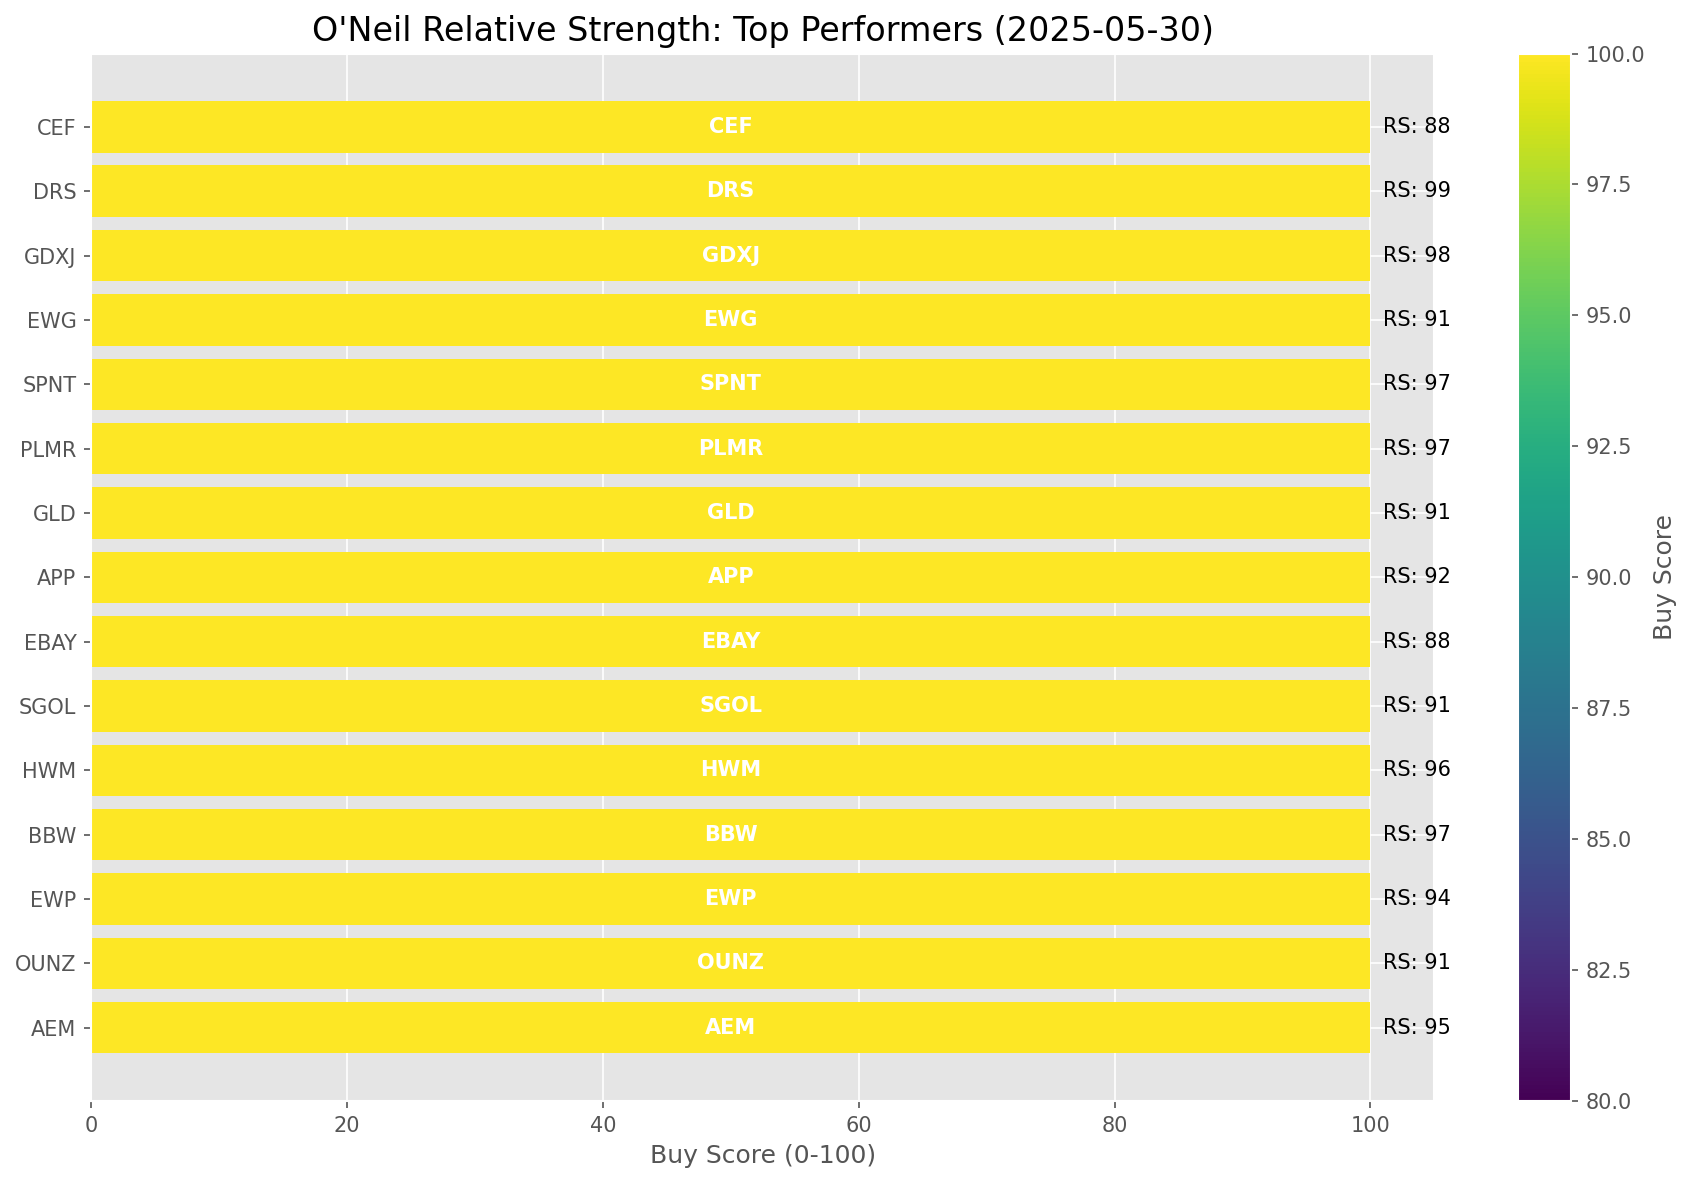
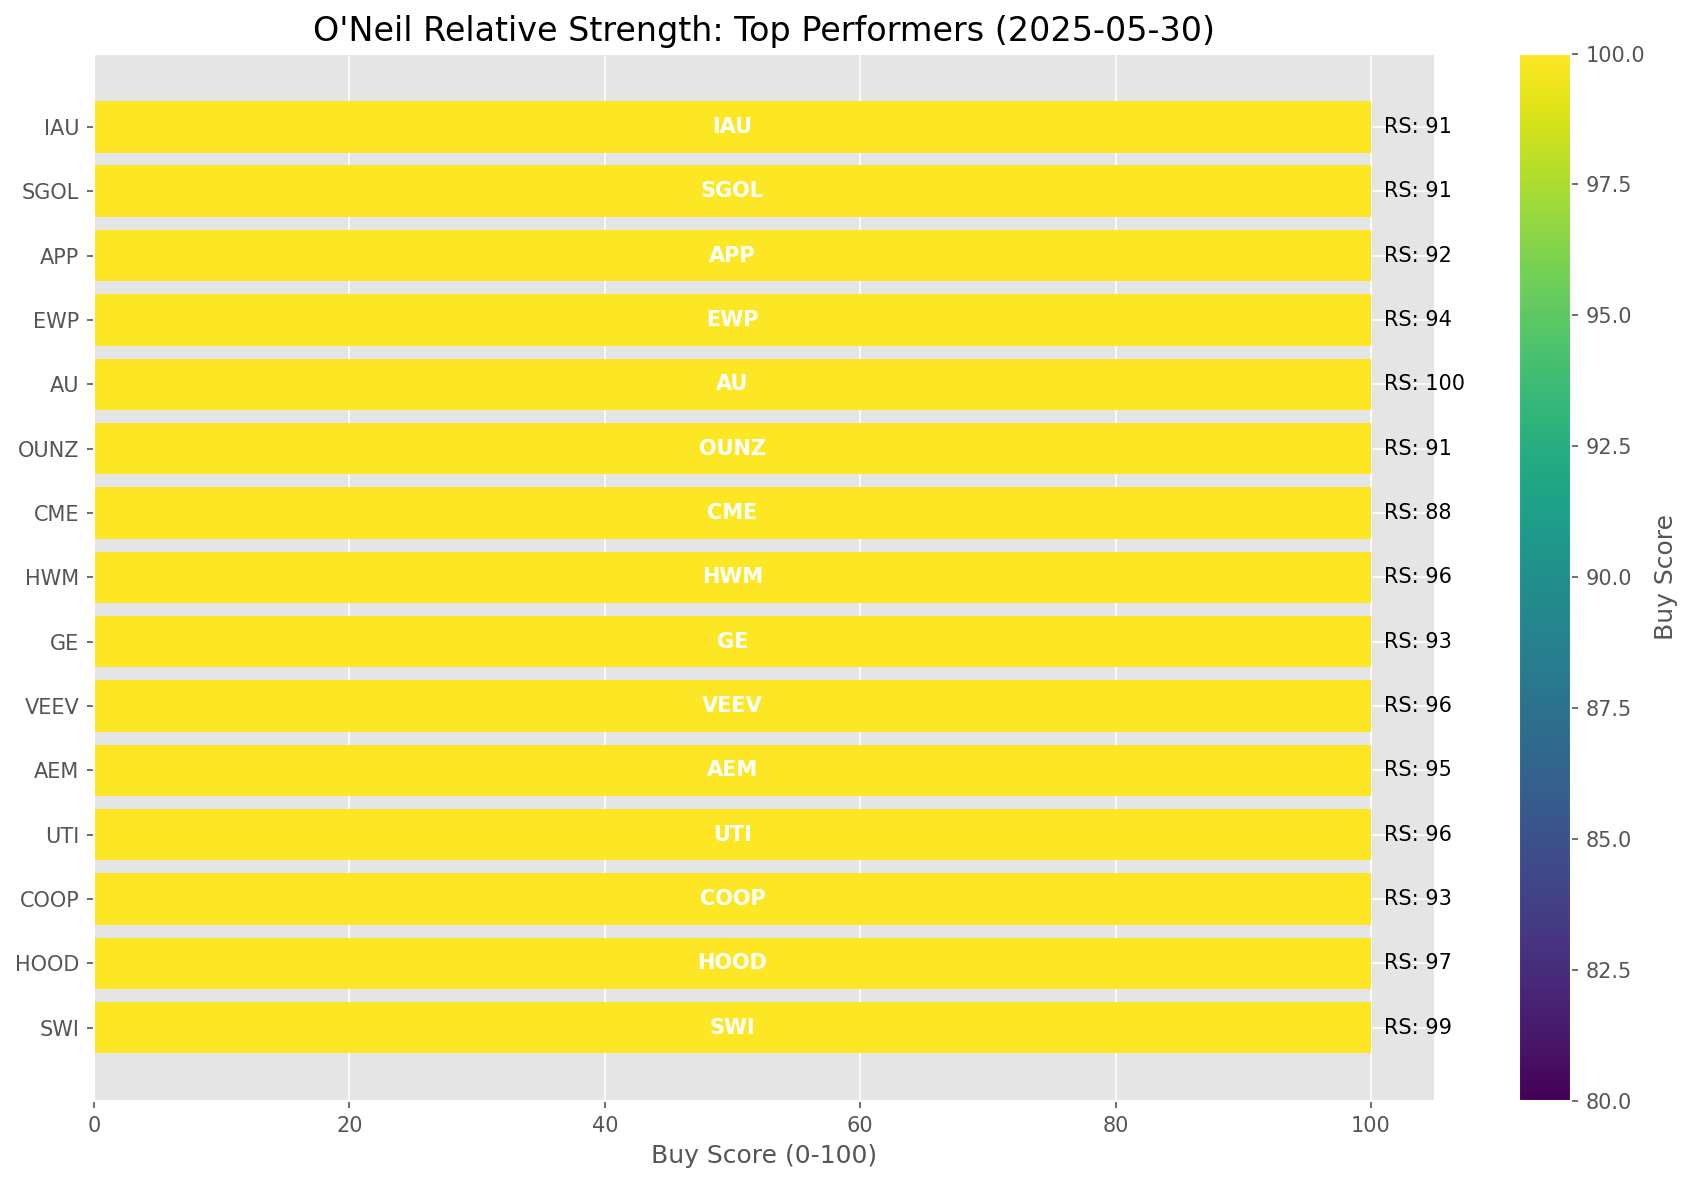
Add market report for 2025-05-30

diff --git a/oneil_relative_strength_report_2025-05-30.md b/oneil_relative_strength_report_2025-05-30.md
@@ -9,11 +9,11 @@
 | Metric | Value |
 |--------|-------|
 | **Market Valuation** | **Fair Valued** |
-| **Current Ratio** | 9.64 |
+| **Current Ratio** | 9.68 |
 | **Historical Mean** | 9.36 |
 | **Standard Deviation** | 0.47 |
 | **Z-Score (StdDev from Mean)** | 0.67 |
-| **Total Market Cap** | $288.99 trillion |
+| **Total Market Cap** | $290.28 trillion |
 | **GDP** | $29.98 trillion |
 
 ## **Market Insights**
@@ -111,63 +111,63 @@ The following 77 stocks show exceptional relative strength:
 | RS Rating | Buy Score | Current Price | Chart | Name | Ticker |
 |-----------|-----------|---------------|-------|------|--------|
 | 100 | 100 | $44.05 | [Chart](https://www.tradingview.com/chart/?symbol=AU) | AngloGold Ashanti plc | AU |
+| 100 | 100 | $95.38 | [Chart](https://www.tradingview.com/chart/?symbol=RBRK) | Rubrik, Inc. | RBRK |
 | 100 | 100 | $109.15 | [Chart](https://www.tradingview.com/chart/?symbol=SEZL) | Sezzle Inc. Common Stock | SEZL |
 | 100 | 100 | $207.01 | [Chart](https://www.tradingview.com/chart/?symbol=AGX) | Argan, Inc | AGX |
 | 100 | 100 | $208.32 | [Chart](https://www.tradingview.com/chart/?symbol=DAVE) | Dave Inc. Class A Common Stock | DAVE |
-| 100 | 100 | $95.38 | [Chart](https://www.tradingview.com/chart/?symbol=RBRK) | Rubrik, Inc. | RBRK |
-| 99 | 100 | $41.75 | [Chart](https://www.tradingview.com/chart/?symbol=DRS) | Leonardo DRS, Inc. Common Stock | DRS |
 | 99 | 100 | $36.43 | [Chart](https://www.tradingview.com/chart/?symbol=KTOS) | Kratos Defense & Security Solutions, Inc. | KTOS |
-| 99 | 100 | $471.17 | [Chart](https://www.tradingview.com/chart/?symbol=GEV) | GE Vernova Inc. | GEV |
 | 99 | 100 | $42.30 | [Chart](https://www.tradingview.com/chart/?symbol=FARO) | Faro Technologies Inc | FARO |
 | 99 | 100 | $319.65 | [Chart](https://www.tradingview.com/chart/?symbol=CVNA) | Carvana Co. | CVNA |
+| 99 | 100 | $471.17 | [Chart](https://www.tradingview.com/chart/?symbol=GEV) | GE Vernova Inc. | GEV |
+| 99 | 100 | $41.75 | [Chart](https://www.tradingview.com/chart/?symbol=DRS) | Leonardo DRS, Inc. Common Stock | DRS |
 | 98 | 100 | $64.58 | [Chart](https://www.tradingview.com/chart/?symbol=GDXJ) | VanEck Junior Gold Miners ETF | GDXJ |
-| 98 | 100 | $21.74 | [Chart](https://www.tradingview.com/chart/?symbol=TFPM) | Triple Flag Precious Metals Corp. | TFPM |
-| 98 | 100 | $140.35 | [Chart](https://www.tradingview.com/chart/?symbol=UGL) | ProShares Ultra Gold | UGL |
-| 98 | 100 | $24.53 | [Chart](https://www.tradingview.com/chart/?symbol=GRND) | Grindr Inc. | GRND |
-| 98 | 100 | $26.92 | [Chart](https://www.tradingview.com/chart/?symbol=UVE) | UNIVERSAL INSURANCE HLDG, INC. | UVE |
 | 98 | 100 | $84.79 | [Chart](https://www.tradingview.com/chart/?symbol=RBLX) | Roblox Corporation | RBLX |
+| 98 | 100 | $140.35 | [Chart](https://www.tradingview.com/chart/?symbol=UGL) | ProShares Ultra Gold | UGL |
+| 98 | 100 | $26.92 | [Chart](https://www.tradingview.com/chart/?symbol=UVE) | UNIVERSAL INSURANCE HLDG, INC. | UVE |
+| 98 | 100 | $21.74 | [Chart](https://www.tradingview.com/chart/?symbol=TFPM) | Triple Flag Precious Metals Corp. | TFPM |
+| 98 | 100 | $24.53 | [Chart](https://www.tradingview.com/chart/?symbol=GRND) | Grindr Inc. | GRND |
 | 98 | 100 | $56.60 | [Chart](https://www.tradingview.com/chart/?symbol=SHLD) | Global X Defense Tech ETF | SHLD |
-| 97 | 100 | $52.03 | [Chart](https://www.tradingview.com/chart/?symbol=BBW) | Build-A-Bear Workshop, Inc. | BBW |
-| 97 | 100 | $163.93 | [Chart](https://www.tradingview.com/chart/?symbol=PLMR) | Palomar Holdings, Inc. Common stock | PLMR |
+| 97 | 100 | $63.95 | [Chart](https://www.tradingview.com/chart/?symbol=HOOD) | Robinhood Markets, Inc. Class A Common Stock | HOOD |
 | 97 | 100 | $19.65 | [Chart](https://www.tradingview.com/chart/?symbol=SPNT) | SiriusPoint Ltd. | SPNT |
 | 97 | 100 | $32.95 | [Chart](https://www.tradingview.com/chart/?symbol=PRDO) | Perdoceo Education Corporation | PRDO |
-| 97 | 100 | $63.95 | [Chart](https://www.tradingview.com/chart/?symbol=HOOD) | Robinhood Markets, Inc. Class A Common Stock | HOOD |
-| 96 | 100 | $170.09 | [Chart](https://www.tradingview.com/chart/?symbol=HWM) | Howmet Aerospace Inc. | HWM |
-| 96 | 100 | $279.04 | [Chart](https://www.tradingview.com/chart/?symbol=VEEV) | Veeva Systems Inc. | VEEV |
+| 97 | 100 | $52.03 | [Chart](https://www.tradingview.com/chart/?symbol=BBW) | Build-A-Bear Workshop, Inc. | BBW |
+| 97 | 100 | $163.93 | [Chart](https://www.tradingview.com/chart/?symbol=PLMR) | Palomar Holdings, Inc. Common stock | PLMR |
 | 96 | 100 | $35.30 | [Chart](https://www.tradingview.com/chart/?symbol=UTI) | Universal Technical Institute, Inc. | UTI |
+| 96 | 100 | $279.04 | [Chart](https://www.tradingview.com/chart/?symbol=VEEV) | Veeva Systems Inc. | VEEV |
+| 96 | 100 | $170.09 | [Chart](https://www.tradingview.com/chart/?symbol=HWM) | Howmet Aerospace Inc. | HWM |
 | 96 | 100 | $86.06 | [Chart](https://www.tradingview.com/chart/?symbol=WPM) | Wheaton Precious Metals Corp. Common Stock | WPM |
 | 95 | 100 | $118.17 | [Chart](https://www.tradingview.com/chart/?symbol=AEM) | Agnico Eagle Mines Ltd. | AEM |
 | 95 | 100 | $19.25 | [Chart](https://www.tradingview.com/chart/?symbol=MIR) | Mirion Technologies, Inc. | MIR |
 | 95 | 100 | $179.40 | [Chart](https://www.tradingview.com/chart/?symbol=RGLD) | Royal Gold Inc | RGLD |
 | 95 | 100 | $36.85 | [Chart](https://www.tradingview.com/chart/?symbol=AS) | Amer Sports, Inc. | AS |
 | 94 | 100 | $43.08 | [Chart](https://www.tradingview.com/chart/?symbol=EWP) | iShares MSCI Spain ETF | EWP |
-| 93 | 100 | $153.99 | [Chart](https://www.tradingview.com/chart/?symbol=CAH) | Cardinal Health, Inc. | CAH |
 | 93 | 100 | $132.73 | [Chart](https://www.tradingview.com/chart/?symbol=COOP) | Mr. Cooper Group Inc. Common Stock | COOP |
-| 93 | 100 | $102.14 | [Chart](https://www.tradingview.com/chart/?symbol=JCI) | Johnson Controls International plc | JCI |
 | 93 | 100 | $244.16 | [Chart](https://www.tradingview.com/chart/?symbol=GE) | GE Aerospace | GE |
+| 93 | 100 | $153.99 | [Chart](https://www.tradingview.com/chart/?symbol=CAH) | Cardinal Health, Inc. | CAH |
+| 93 | 100 | $102.14 | [Chart](https://www.tradingview.com/chart/?symbol=JCI) | Johnson Controls International plc | JCI |
 | 92 | 100 | $384.23 | [Chart](https://www.tradingview.com/chart/?symbol=APP) | Applovin Corporation Class A Common Stock | APP |
 | 92 | 100 | $73.96 | [Chart](https://www.tradingview.com/chart/?symbol=WRB) | W.R. Berkley Corporation | WRB |
 | 92 | 100 | $34.84 | [Chart](https://www.tradingview.com/chart/?symbol=AHR) | American Healthcare REIT, Inc. | AHR |
 | 91 | 100 | $31.97 | [Chart](https://www.tradingview.com/chart/?symbol=OUNZ) | VanEck Merk Gold ETF | OUNZ |
 | 91 | 100 | $31.64 | [Chart](https://www.tradingview.com/chart/?symbol=SGOL) | abrdn Physical Gold Shares ETF | SGOL |
+| 91 | 100 | $62.54 | [Chart](https://www.tradingview.com/chart/?symbol=IAU) | iShares Gold Trust | IAU |
+| 91 | 100 | $47.58 | [Chart](https://www.tradingview.com/chart/?symbol=EWI) | iShares MSCI Italy ETF | EWI |
+| 91 | 100 | $32.76 | [Chart](https://www.tradingview.com/chart/?symbol=AAAU) | Goldman Sachs Physical Gold ETF Shares | AAAU |
+| 91 | 100 | $33.06 | [Chart](https://www.tradingview.com/chart/?symbol=IAUM) | iShares Gold Trust Micro | IAUM |
+| 91 | 100 | $65.67 | [Chart](https://www.tradingview.com/chart/?symbol=GLDM) | SPDR Gold MiniShares | GLDM |
 | 91 | 100 | $305.61 | [Chart](https://www.tradingview.com/chart/?symbol=GLD) | SPDR Gold Trust, SPDR Gold Shares | GLD |
 | 91 | 100 | $41.85 | [Chart](https://www.tradingview.com/chart/?symbol=EWG) | iShares MSCI Germany ETF | EWG |
-| 91 | 100 | $47.58 | [Chart](https://www.tradingview.com/chart/?symbol=EWI) | iShares MSCI Italy ETF | EWI |
-| 91 | 100 | $65.67 | [Chart](https://www.tradingview.com/chart/?symbol=GLDM) | SPDR Gold MiniShares | GLDM |
-| 91 | 100 | $33.06 | [Chart](https://www.tradingview.com/chart/?symbol=IAUM) | iShares Gold Trust Micro | IAUM |
-| 91 | 100 | $32.76 | [Chart](https://www.tradingview.com/chart/?symbol=AAAU) | Goldman Sachs Physical Gold ETF Shares | AAAU |
-| 91 | 100 | $62.54 | [Chart](https://www.tradingview.com/chart/?symbol=IAU) | iShares Gold Trust | IAU |
-| 90 | 100 | $177.87 | [Chart](https://www.tradingview.com/chart/?symbol=PM) | Philip Morris International Inc. | PM |
-| 90 | 100 | $25.33 | [Chart](https://www.tradingview.com/chart/?symbol=PHYS) | Sprott Physical Gold Trust | PHYS |
-| 90 | 100 | $44.97 | [Chart](https://www.tradingview.com/chart/?symbol=BTI) | British American Tobacco p.l.c. American Depositary Shares, American Depositary Shares, each representing one Ordinary Share | BTI |
 | 90 | 100 | $209.79 | [Chart](https://www.tradingview.com/chart/?symbol=BAP) | Credicorp LTD | BAP |
 | 90 | 100 | $64.11 | [Chart](https://www.tradingview.com/chart/?symbol=SLF) | Sun Life Financial Inc. | SLF |
-| 88 | 100 | $72.74 | [Chart](https://www.tradingview.com/chart/?symbol=EBAY) | eBay Inc | EBAY |
-| 88 | 100 | $29.26 | [Chart](https://www.tradingview.com/chart/?symbol=CEF) | Sprott Physical Gold and Silver Trust | CEF |
+| 90 | 100 | $25.33 | [Chart](https://www.tradingview.com/chart/?symbol=PHYS) | Sprott Physical Gold Trust | PHYS |
+| 90 | 100 | $177.87 | [Chart](https://www.tradingview.com/chart/?symbol=PM) | Philip Morris International Inc. | PM |
+| 90 | 100 | $44.97 | [Chart](https://www.tradingview.com/chart/?symbol=BTI) | British American Tobacco p.l.c. American Depositary Shares, American Depositary Shares, each representing one Ordinary Share | BTI |
+| 88 | 100 | $285.87 | [Chart](https://www.tradingview.com/chart/?symbol=CME) | CME Group Inc. | CME |
 | 88 | 100 | $233.39 | [Chart](https://www.tradingview.com/chart/?symbol=CRS) | Carpenter Technology Corp | CRS |
 | 88 | 100 | $17.80 | [Chart](https://www.tradingview.com/chart/?symbol=BCS) | Barclays PLC | BCS |
+| 88 | 100 | $29.26 | [Chart](https://www.tradingview.com/chart/?symbol=CEF) | Sprott Physical Gold and Silver Trust | CEF |
 | 88 | 100 | $167.43 | [Chart](https://www.tradingview.com/chart/?symbol=SFM) | Sprouts Farmers Market, Inc. | SFM |
-| 88 | 100 | $285.87 | [Chart](https://www.tradingview.com/chart/?symbol=CME) | CME Group Inc. | CME |
+| 88 | 100 | $72.74 | [Chart](https://www.tradingview.com/chart/?symbol=EBAY) | eBay Inc | EBAY |
 | 86 | 100 | $24.00 | [Chart](https://www.tradingview.com/chart/?symbol=SRAD) | Sportradar Group AG Class A Ordinary Shares | SRAD |
 | 89 | 99 | $176.31 | [Chart](https://www.tradingview.com/chart/?symbol=ITA) | iShares U.S. Aerospace & Defense ETF | ITA |
 | 89 | 99 | $34.78 | [Chart](https://www.tradingview.com/chart/?symbol=FDP) | Fresh Del Monte Produce Inc. | FDP |
@@ -198,29 +198,29 @@ The following 107 stocks show deteriorating relative strength:
 | RS Rating | Sell Score | Current Price | Chart | Name | Ticker |
 |-----------|------------|---------------|-------|------|--------|
 | 1 | 100 | $10.64 | [Chart](https://www.tradingview.com/chart/?symbol=NRIX) | Nurix Therapeutics, Inc. Common stock | NRIX |
-| 1 | 100 | $12.68 | [Chart](https://www.tradingview.com/chart/?symbol=IART) | Integra LifeSciences Holdings | IART |
 | 1 | 100 | $15.28 | [Chart](https://www.tradingview.com/chart/?symbol=VTLE) | Vital Energy, Inc. | VTLE |
+| 1 | 100 | $12.68 | [Chart](https://www.tradingview.com/chart/?symbol=IART) | Integra LifeSciences Holdings | IART |
 | 2 | 100 | $16.32 | [Chart](https://www.tradingview.com/chart/?symbol=BEAM) | Beam Therapeutics Inc. Common Stock | BEAM |
 | 3 | 100 | $13.82 | [Chart](https://www.tradingview.com/chart/?symbol=DQ) | Daqo New Energy Corp. American Depositary Shares (each representing 5 Ordinary Shares) | DQ |
-| 3 | 100 | $17.57 | [Chart](https://www.tradingview.com/chart/?symbol=NVDS) | Investment Managers Series Trust II Tradr 1.5X Short NVDA Daily ETF | NVDS |
-| 3 | 100 | $125.61 | [Chart](https://www.tradingview.com/chart/?symbol=KRYS) | Krystal Biotech, Inc. Common Stock | KRYS |
 | 3 | 100 | $15.11 | [Chart](https://www.tradingview.com/chart/?symbol=PENN) | PENN Entertainment, Inc. Common Stock | PENN |
+| 3 | 100 | $125.61 | [Chart](https://www.tradingview.com/chart/?symbol=KRYS) | Krystal Biotech, Inc. Common Stock | KRYS |
+| 3 | 100 | $17.57 | [Chart](https://www.tradingview.com/chart/?symbol=NVDS) | Investment Managers Series Trust II Tradr 1.5X Short NVDA Daily ETF | NVDS |
 | 4 | 100 | $10.31 | [Chart](https://www.tradingview.com/chart/?symbol=VREX) | Varex Imaging Corporation Common Stock | VREX |
 | 4 | 100 | $19.76 | [Chart](https://www.tradingview.com/chart/?symbol=AMRK) | A-Mark Precious Metals, Inc. | AMRK |
 | 4 | 100 | $23.80 | [Chart](https://www.tradingview.com/chart/?symbol=SM) | SM Energy Company | SM |
 | 4 | 100 | $43.93 | [Chart](https://www.tradingview.com/chart/?symbol=LINE) | Lineage, Inc. Common Stock | LINE |
-| 5 | 100 | $29.16 | [Chart](https://www.tradingview.com/chart/?symbol=SRDX) | Surmodics, Inc. Common Stock | SRDX |
 | 5 | 100 | $10.13 | [Chart](https://www.tradingview.com/chart/?symbol=CWK) | Cushman & Wakefield plc Ordinary Shares | CWK |
+| 5 | 100 | $29.16 | [Chart](https://www.tradingview.com/chart/?symbol=SRDX) | Surmodics, Inc. Common Stock | SRDX |
 | 5 | 100 | $57.49 | [Chart](https://www.tradingview.com/chart/?symbol=ALB) | Albemarle Corporation | ALB |
 | 6 | 100 | $11.03 | [Chart](https://www.tradingview.com/chart/?symbol=CLB) | Core Laboratories Inc. | CLB |
+| 7 | 100 | $81.19 | [Chart](https://www.tradingview.com/chart/?symbol=KSPI) | Joint Stock Company Kaspi.kz American Depository Shares | KSPI |
 | 7 | 100 | $122.32 | [Chart](https://www.tradingview.com/chart/?symbol=RGEN) | Repligen Corp | RGEN |
 | 7 | 100 | $32.76 | [Chart](https://www.tradingview.com/chart/?symbol=MBIN) | Merchants Bancorp Common Stock | MBIN |
 | 7 | 100 | $78.62 | [Chart](https://www.tradingview.com/chart/?symbol=WHR) | Whirlpool Corp. | WHR |
-| 7 | 100 | $81.19 | [Chart](https://www.tradingview.com/chart/?symbol=KSPI) | Joint Stock Company Kaspi.kz American Depository Shares | KSPI |
+| 8 | 100 | $22.84 | [Chart](https://www.tradingview.com/chart/?symbol=RPD) | Rapid7, Inc. Common Stock | RPD |
 | 8 | 100 | $52.86 | [Chart](https://www.tradingview.com/chart/?symbol=ASGN) | ASGN Incorporated | ASGN |
 | 8 | 100 | $48.18 | [Chart](https://www.tradingview.com/chart/?symbol=ERX) | Direxion Daily Energy Bull 2X Shares | ERX |
 | 8 | 100 | $46.42 | [Chart](https://www.tradingview.com/chart/?symbol=RHI) | Robert Half Inc. | RHI |
-| 8 | 100 | $22.84 | [Chart](https://www.tradingview.com/chart/?symbol=RPD) | Rapid7, Inc. Common Stock | RPD |
 | 9 | 100 | $91.00 | [Chart](https://www.tradingview.com/chart/?symbol=CHRD) | Chord Energy Corporation Common Stock | CHRD |
 | 10 | 100 | $18.31 | [Chart](https://www.tradingview.com/chart/?symbol=PDFS) | PDF Solutions Inc | PDFS |
 | 10 | 100 | $69.00 | [Chart](https://www.tradingview.com/chart/?symbol=WD) | Walker & Dunlop, Inc. | WD |
@@ -236,8 +236,8 @@ The following 107 stocks show deteriorating relative strength:
 | 4 | 97 | $10.68 | [Chart](https://www.tradingview.com/chart/?symbol=LSPD) | Lightspeed Commerce Inc. | LSPD |
 | 10 | 97 | $38.85 | [Chart](https://www.tradingview.com/chart/?symbol=APOG) | Apogee Enterprises Inc | APOG |
 | 11 | 97 | $12.28 | [Chart](https://www.tradingview.com/chart/?symbol=NOV) | NOV Inc. | NOV |
-| 12 | 97 | $17.85 | [Chart](https://www.tradingview.com/chart/?symbol=DNTH) | Dianthus Therapeutics, Inc. Common Stock | DNTH |
 | 12 | 97 | $199.95 | [Chart](https://www.tradingview.com/chart/?symbol=AAPL) | Apple Inc. | AAPL |
+| 12 | 97 | $17.85 | [Chart](https://www.tradingview.com/chart/?symbol=DNTH) | Dianthus Therapeutics, Inc. Common Stock | DNTH |
 | 8 | 96 | $14.59 | [Chart](https://www.tradingview.com/chart/?symbol=INMD) | InMode Ltd. Ordinary Shares | INMD |
 | 11 | 96 | $58.55 | [Chart](https://www.tradingview.com/chart/?symbol=BMRN) | BioMarin Pharmaceuticals Inc | BMRN |
 | 12 | 96 | $25.74 | [Chart](https://www.tradingview.com/chart/?symbol=TRN) | Trinity Industries, Inc. | TRN |
@@ -245,8 +245,8 @@ The following 107 stocks show deteriorating relative strength:
 | 15 | 96 | $41.46 | [Chart](https://www.tradingview.com/chart/?symbol=OXY) | Occidental Petroleum Corporation | OXY |
 | 23 | 96 | $14.68 | [Chart](https://www.tradingview.com/chart/?symbol=FXN) | First Trust Energy AlphaDEX Fund | FXN |
 | 14 | 95 | $36.53 | [Chart](https://www.tradingview.com/chart/?symbol=OVV) | Ovintiv Inc. | OVV |
-| 15 | 95 | $19.35 | [Chart](https://www.tradingview.com/chart/?symbol=FOR) | Forestar Group Inc. | FOR |
 | 15 | 95 | $51.78 | [Chart](https://www.tradingview.com/chart/?symbol=KBH) | KB Home | KBH |
+| 15 | 95 | $19.35 | [Chart](https://www.tradingview.com/chart/?symbol=FOR) | Forestar Group Inc. | FOR |
 | 14 | 94 | $15.46 | [Chart](https://www.tradingview.com/chart/?symbol=DXC) | DXC Technology Company | DXC |
 | 17 | 94 | $31.13 | [Chart](https://www.tradingview.com/chart/?symbol=DAR) | DARLING INGREDIENTS INC. | DAR |
 | 19 | 94 | $10.02 | [Chart](https://www.tradingview.com/chart/?symbol=LBTYK) | Liberty Global Ltd. Class C Common Shares | LBTYK |
@@ -287,8 +287,8 @@ The following 107 stocks show deteriorating relative strength:
 | 27 | 79 | $16.64 | [Chart](https://www.tradingview.com/chart/?symbol=MLNK) | MeridianLink, Inc. | MLNK |
 | 28 | 79 | $38.17 | [Chart](https://www.tradingview.com/chart/?symbol=MLTX) | MoonLake Immunotherapeutics Class A Ordinary Shares | MLTX |
 | 31 | 78 | $11.91 | [Chart](https://www.tradingview.com/chart/?symbol=NVG) | Nuveen AMT-Free Municipal Credit Income Fund | NVG |
-| 32 | 77 | $72.71 | [Chart](https://www.tradingview.com/chart/?symbol=WFG) | West Fraser Timber Co. Ltd | WFG |
 | 32 | 77 | $10.43 | [Chart](https://www.tradingview.com/chart/?symbol=MYI) | BLACKROCK MUNIYIELD QUALITY FUND III, INC. | MYI |
+| 32 | 77 | $72.71 | [Chart](https://www.tradingview.com/chart/?symbol=WFG) | West Fraser Timber Co. Ltd | WFG |
 | 35 | 76 | $26.60 | [Chart](https://www.tradingview.com/chart/?symbol=NATL) | NCR Atleos Corporation | NATL |
 | 25 | 75 | $122.41 | [Chart](https://www.tradingview.com/chart/?symbol=SUI) | Sun Communities, Inc | SUI |
 | 31 | 75 | $102.69 | [Chart](https://www.tradingview.com/chart/?symbol=XOM) | Exxon Mobil Corporation | XOM |
